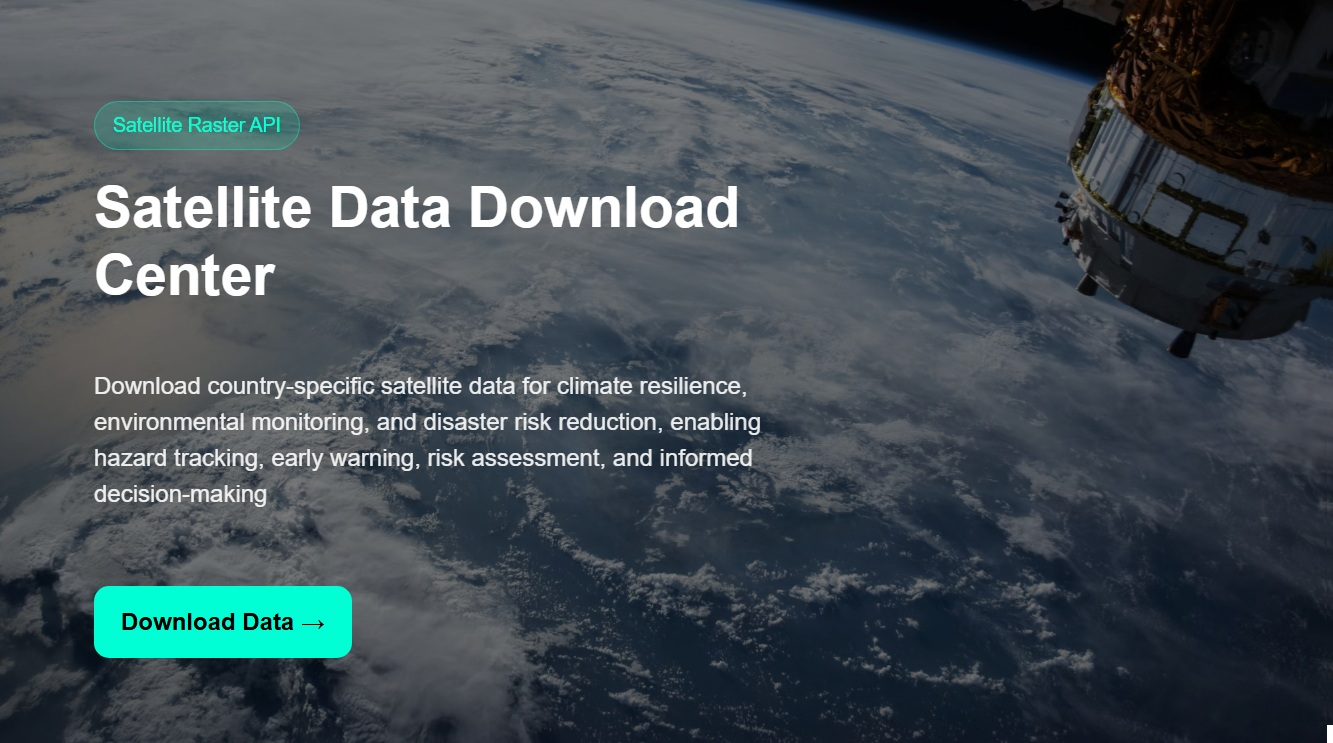
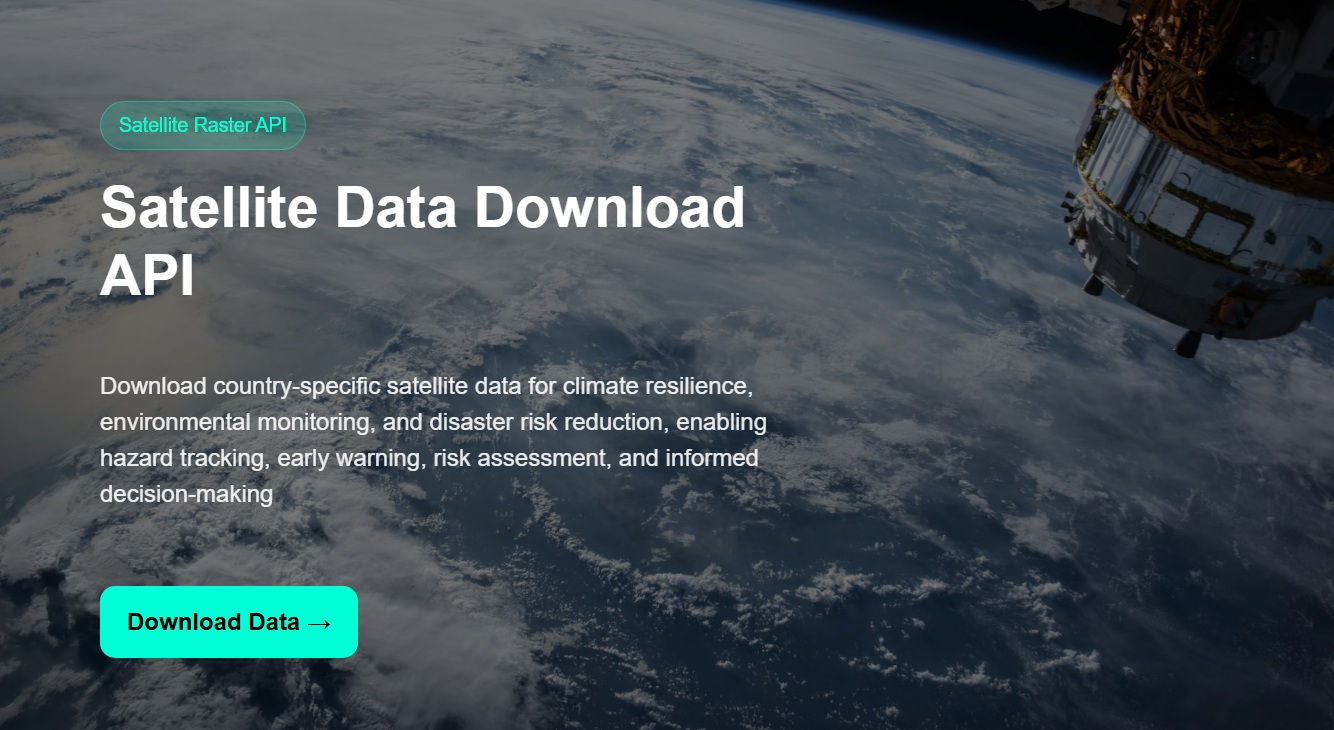
update on APi

diff --git a/download-satellite-API.html b/download-satellite-API.html
@@ -149,7 +149,7 @@
       <div class="badge-api">Satellite Raster API</div>
 
       <div class="hero-title">
-        Satellite Data Download Center
+        Satellite Data Download API
       </div>
       <br>
 
